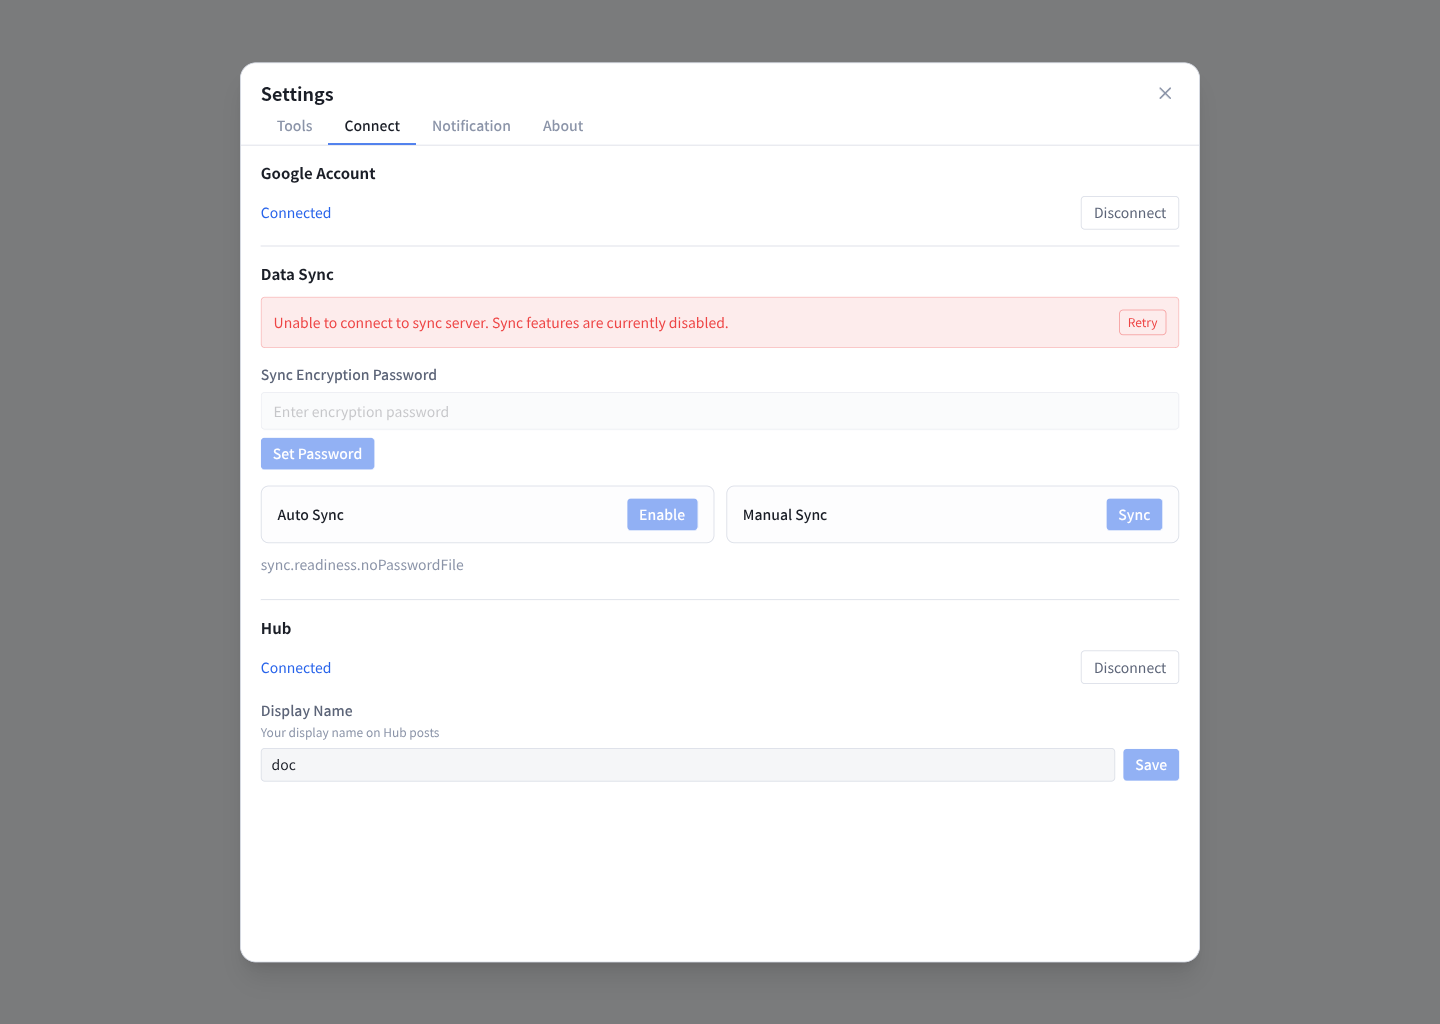
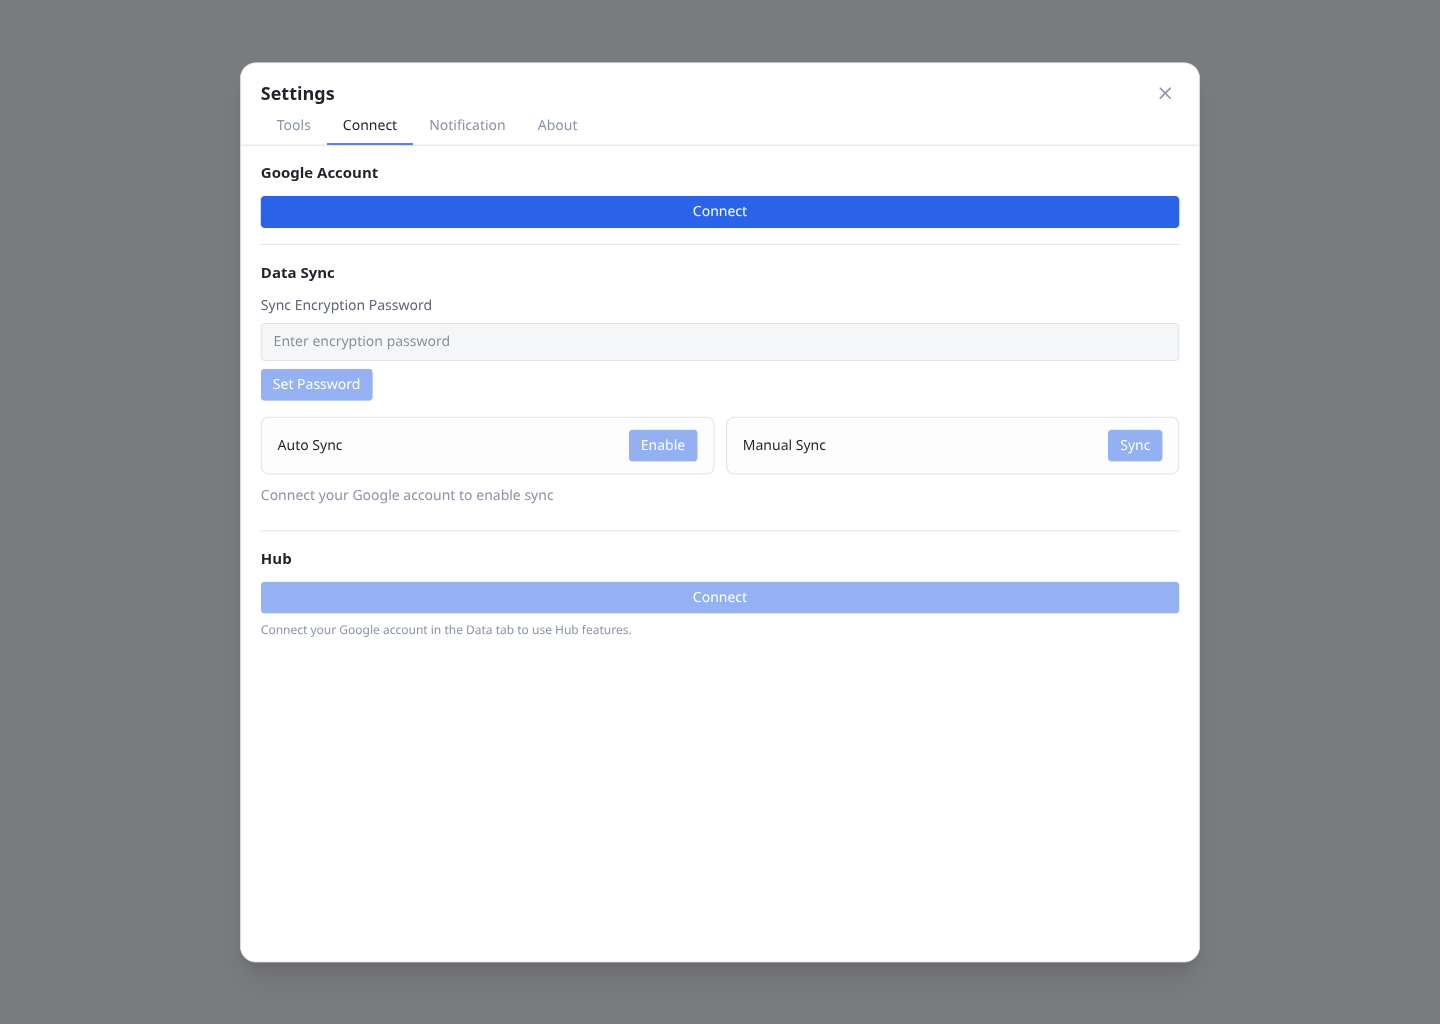
docs(ui): align the guides with the sync and import copy
Quote the real sync readiness messages, describe the two pack-import
failure banners, and refresh the Connect tab screenshot that still
showed a raw locale key.

diff --git a/docs/OPERATION-GUIDE.md b/docs/OPERATION-GUIDE.md
@@ -1736,9 +1736,9 @@ If sync cannot run because the client is not ready, a specific readiness reason 
 
 | Reason | Message |
 |--------|---------|
-| `unauthenticated` | "Sign in to Google to sync." |
-| `noPasswordFile` | "Set a sync password to start syncing." |
-| `remoteCheckFailed` | "Couldn't reach Google Drive — sync is paused." |
+| `unauthenticated` | "Connect your Google account to enable sync" |
+| `noPasswordFile` | "Set a sync password to enable sync" |
+| `remoteCheckFailed` | "Couldn't reach Google Drive; sync is paused" |
 
 #### Sync Unavailable Alert
 
@@ -1933,7 +1933,7 @@ Drag the grip handle to reorder the list, including built-in English — the ord
 
 The Name button's three states (ascending/descending triangle, or a plain "Name" once you drag a row by hand) and what happens on a **single**-file import or Hub download — the new pack is inserted at its correct alphabetical position while a triangle is showing, an overwrite of an existing pack keeps its position, and a brief "Imported {name}" / "Updated {name}" message appears next to the Name button with the row scrolled into view — work exactly as described for Key Labels (§6.2); downloading from Hub follows the same placement rule.
 
-The **Import** button in the toolbar opens a file dialog that accepts **one or more** `.json` language packs at once. Re-importing a pack with the same `name` overwrites the existing entry. While the import runs, the list locks and the toolbar shows an **Importing…** indicator; a batch of two or more files shows a summary once it finishes — "Imported N files (success N, failure N)" — instead of the per-name feedback, and no row is auto-scrolled into view (see Key Labels §6.2 for the full behavior).
+The **Import** button in the toolbar opens a file dialog that accepts **one or more** `.json` language packs at once. Re-importing a pack with the same `name` overwrites the existing entry. While the import runs, the list locks and the toolbar shows an **Importing…** indicator; a batch of two or more files shows a summary once it finishes — "Imported N files (success N, failure N)" — instead of the per-name feedback, and no row is auto-scrolled into view (see Key Labels §6.2 for the full behavior). If any files fail, an error banner appears below the toolbar: files that could not be parsed or saved are listed under "N files could not be imported:" (one `file: reason` line each), while files that saved locally but whose linked Hub post failed to update are listed separately under "N files were saved but could not be synced to the Hub:" — for example with the reason "Connect your Google account to sync with the Hub." when Google isn't connected.
 
 A **Pull from Google Drive** button sits next to Import (installed tab only). It runs a one-off download of every language and theme pack from Google Drive, so a pack another device already synced but this device hasn't seen yet shows up immediately, without waiting for the periodic background sync — it fails with an error if Cloud Sync isn't configured. The button shows a **Pulling…** state while it runs and disables during an in-flight import. The app also runs this same pull automatically, once, the first time a keyboard connects after Cloud Sync credentials are ready — after that first successful pull it doesn't run again automatically (a failure is retried on the next connection). Either path only affects language/theme packs — favorites, keyboard data, and other synced content are unaffected.
 
@@ -2000,7 +2000,7 @@ Drag the grip handle on the left of each row to reorder theme packs — the orde
 
 The Name button's three states (ascending/descending triangle, or a plain "Name" once you drag a row by hand) and what happens on a **single**-file import or Hub download — the new pack is inserted at its correct alphabetical position while a triangle is showing, an overwrite of an existing pack keeps its position, and a brief "Imported {name}" / "Updated {name}" message appears next to the Name button with the row scrolled into view — work exactly as described for Key Labels (§6.2); downloading from Hub follows the same placement rule.
 
-The **Import** button in the toolbar opens a file dialog that accepts **one or more** `.json` theme packs at once. Re-importing a pack with the same `name` overwrites the existing entry. While the import runs, the list locks and the toolbar shows an **Importing…** indicator; a batch of two or more files shows a summary once it finishes — "Imported N files (success N, failure N)" — instead of the per-name feedback, and no row is auto-scrolled into view (see Key Labels §6.2 for the full behavior).
+The **Import** button in the toolbar opens a file dialog that accepts **one or more** `.json` theme packs at once. Re-importing a pack with the same `name` overwrites the existing entry. While the import runs, the list locks and the toolbar shows an **Importing…** indicator; a batch of two or more files shows a summary once it finishes — "Imported N files (success N, failure N)" — instead of the per-name feedback, and no row is auto-scrolled into view (see Key Labels §6.2 for the full behavior). If any files fail, an error banner appears below the toolbar: files that could not be parsed or saved are listed under "N files could not be imported:" (one `file: reason` line each), while files that saved locally but whose linked Hub post failed to update are listed separately under "N files were saved but could not be synced to the Hub:" — for example with the reason "Connect your Google account to sync with the Hub." when Google isn't connected.
 
 A **Pull from Google Drive** button sits next to Import, with the same one-off download behavior (and the same automatic first-connection pull) described for Language Packs in §6.3 — a single pull refreshes both language and theme packs together.
 
